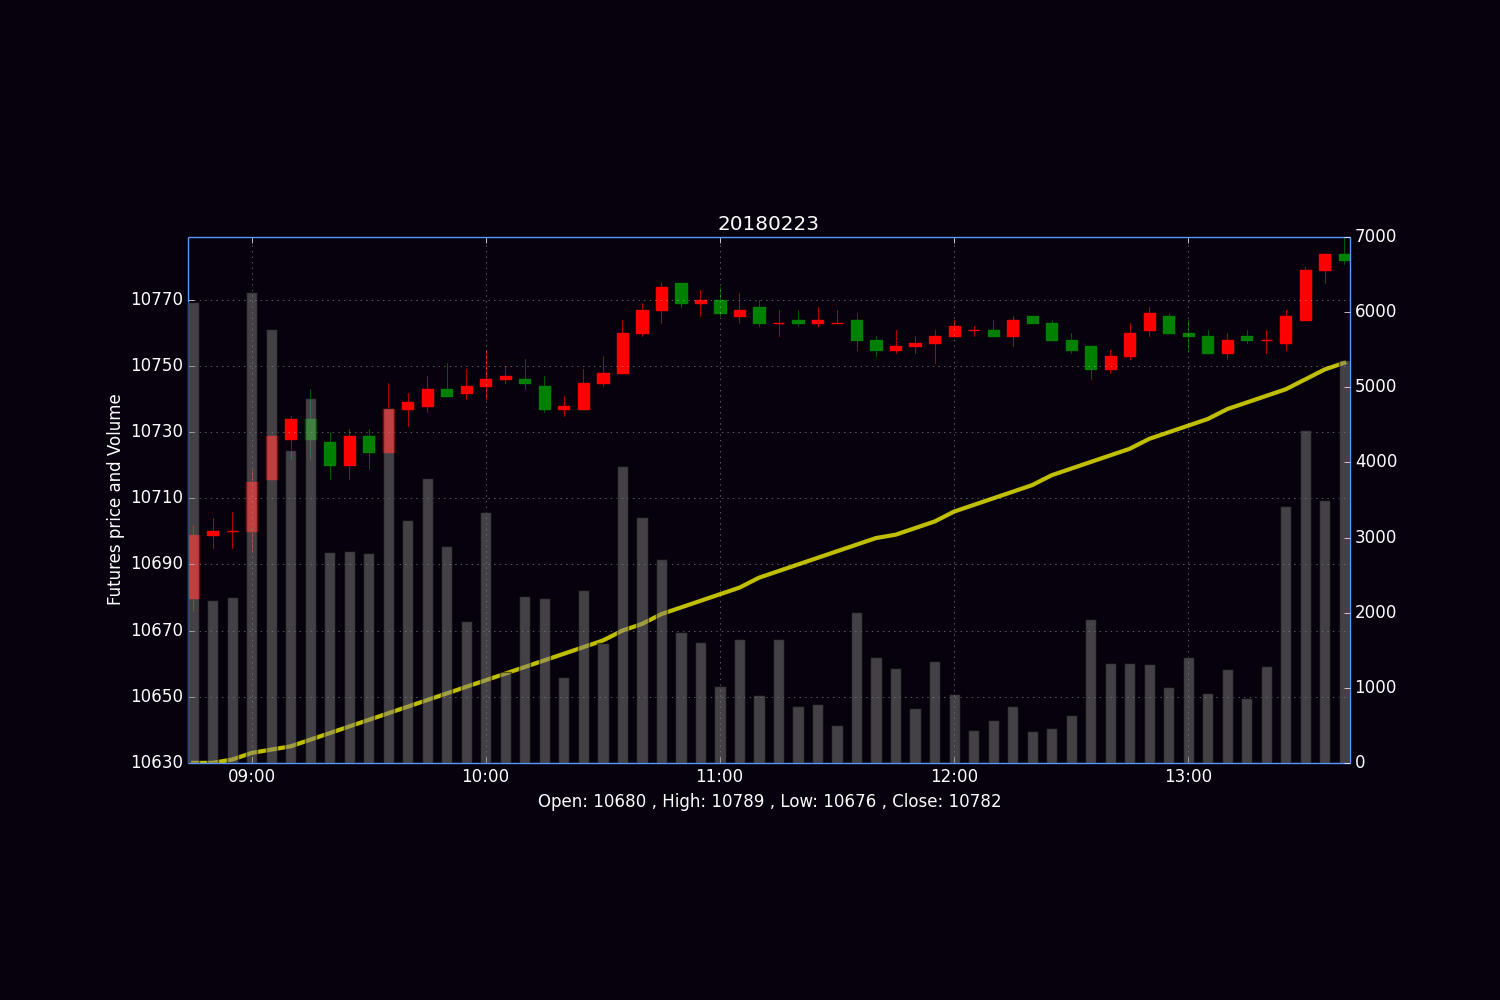
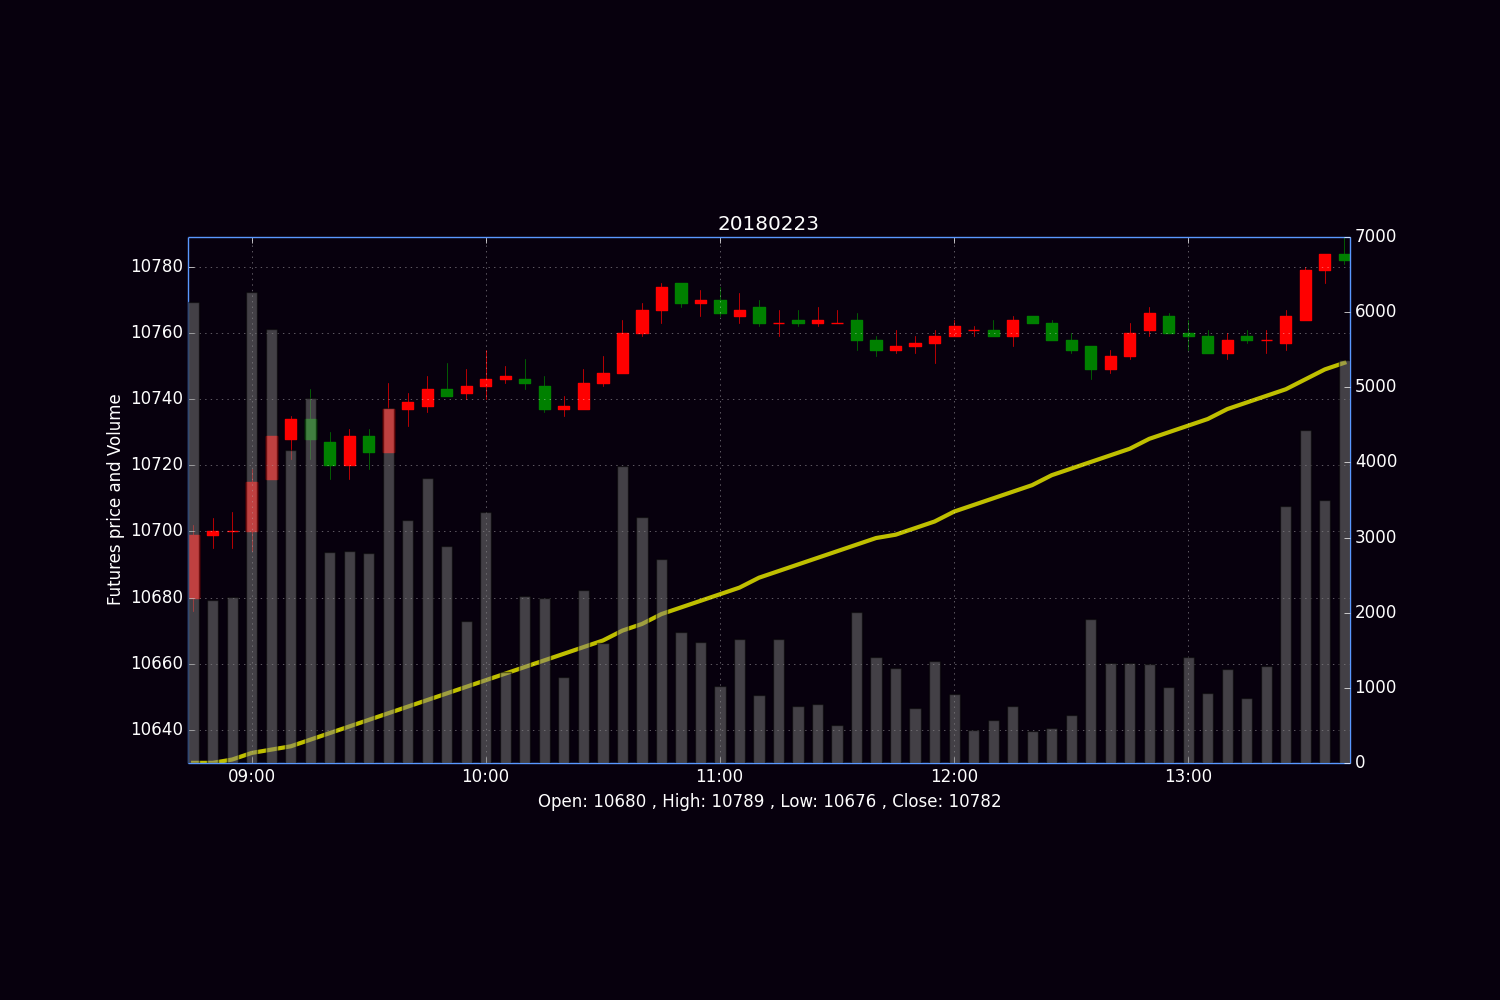
modify floor division

Changed region(s): [[0.092, 0.248, 0.1227, 0.775]]

diff --git a/candleStick.py b/candleStick.py
@@ -153,7 +153,7 @@ ax1.set_xticks([ line[0] for line in timeTick[::12] ])
 ax1.xaxis.label.set_color("w")
 plt.xlabel("Open: "+str(openprice)+" , "+"High: "+str(highPrice)+" , "+"Low: "+str(lowPrice)+" , "+"Close: "+str(closeprice))
 
-ax1.set_yticks(np.arange((min(lowPrice, minMA)/100-1)*100, (max(highPrice, maxMA)/100+1)*100, step=20))
+ax1.set_yticks(np.arange((min(lowPrice, minMA)//100-1)*100, (max(highPrice, maxMA)//100+1)*100, step=20))
 ax1.get_yaxis().get_major_formatter().set_useOffset(False)
 ax1.yaxis.label.set_color("w")
 plt.ylabel('Futures price and Volume')

diff --git a/main.py b/main.py
@@ -18,7 +18,7 @@ from dateutil.relativedelta import *
 #variable section
 #================
 year = 2018
-month = 02
+month = 03
 make_up_days=[str(datetime.date(2018, 03, 31)), str(datetime.date(2018, 12, 22))]
 OHLC_dir="OHLC/"
 OHLC_list=[]
